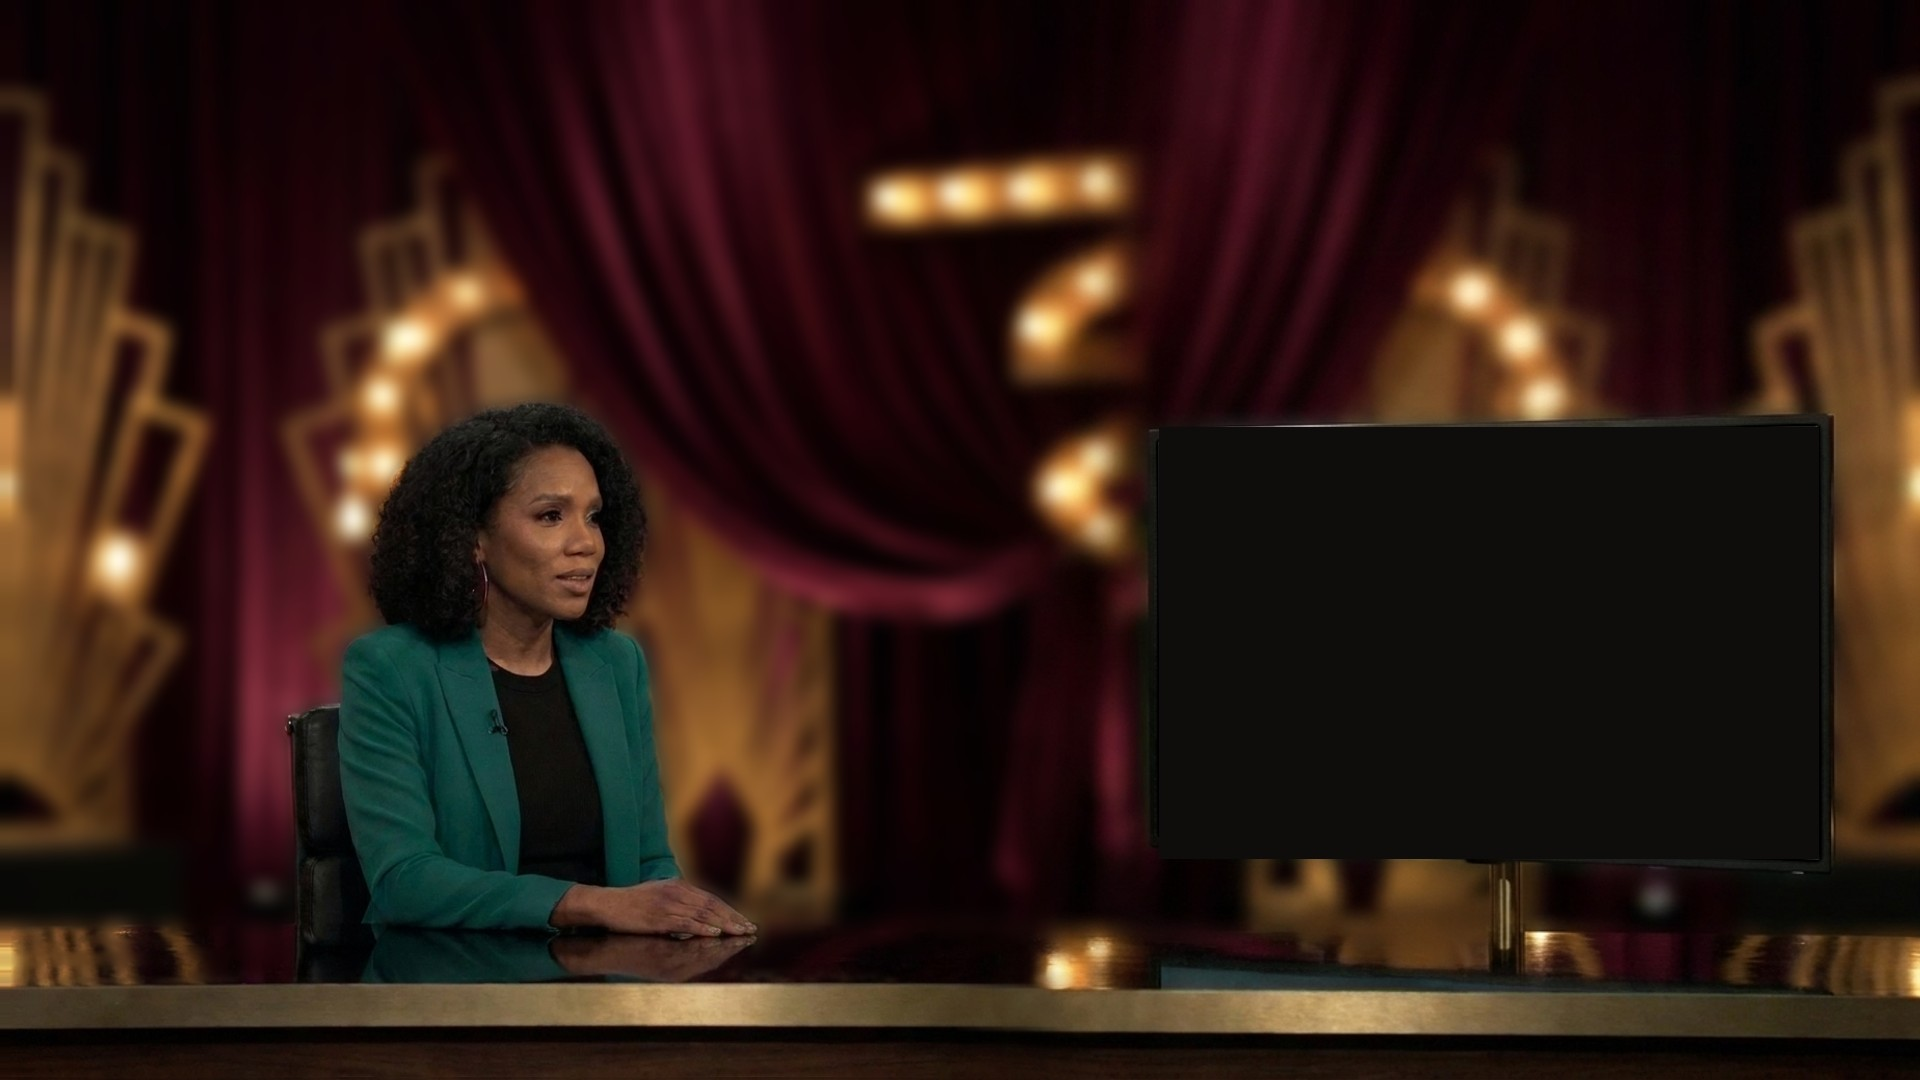
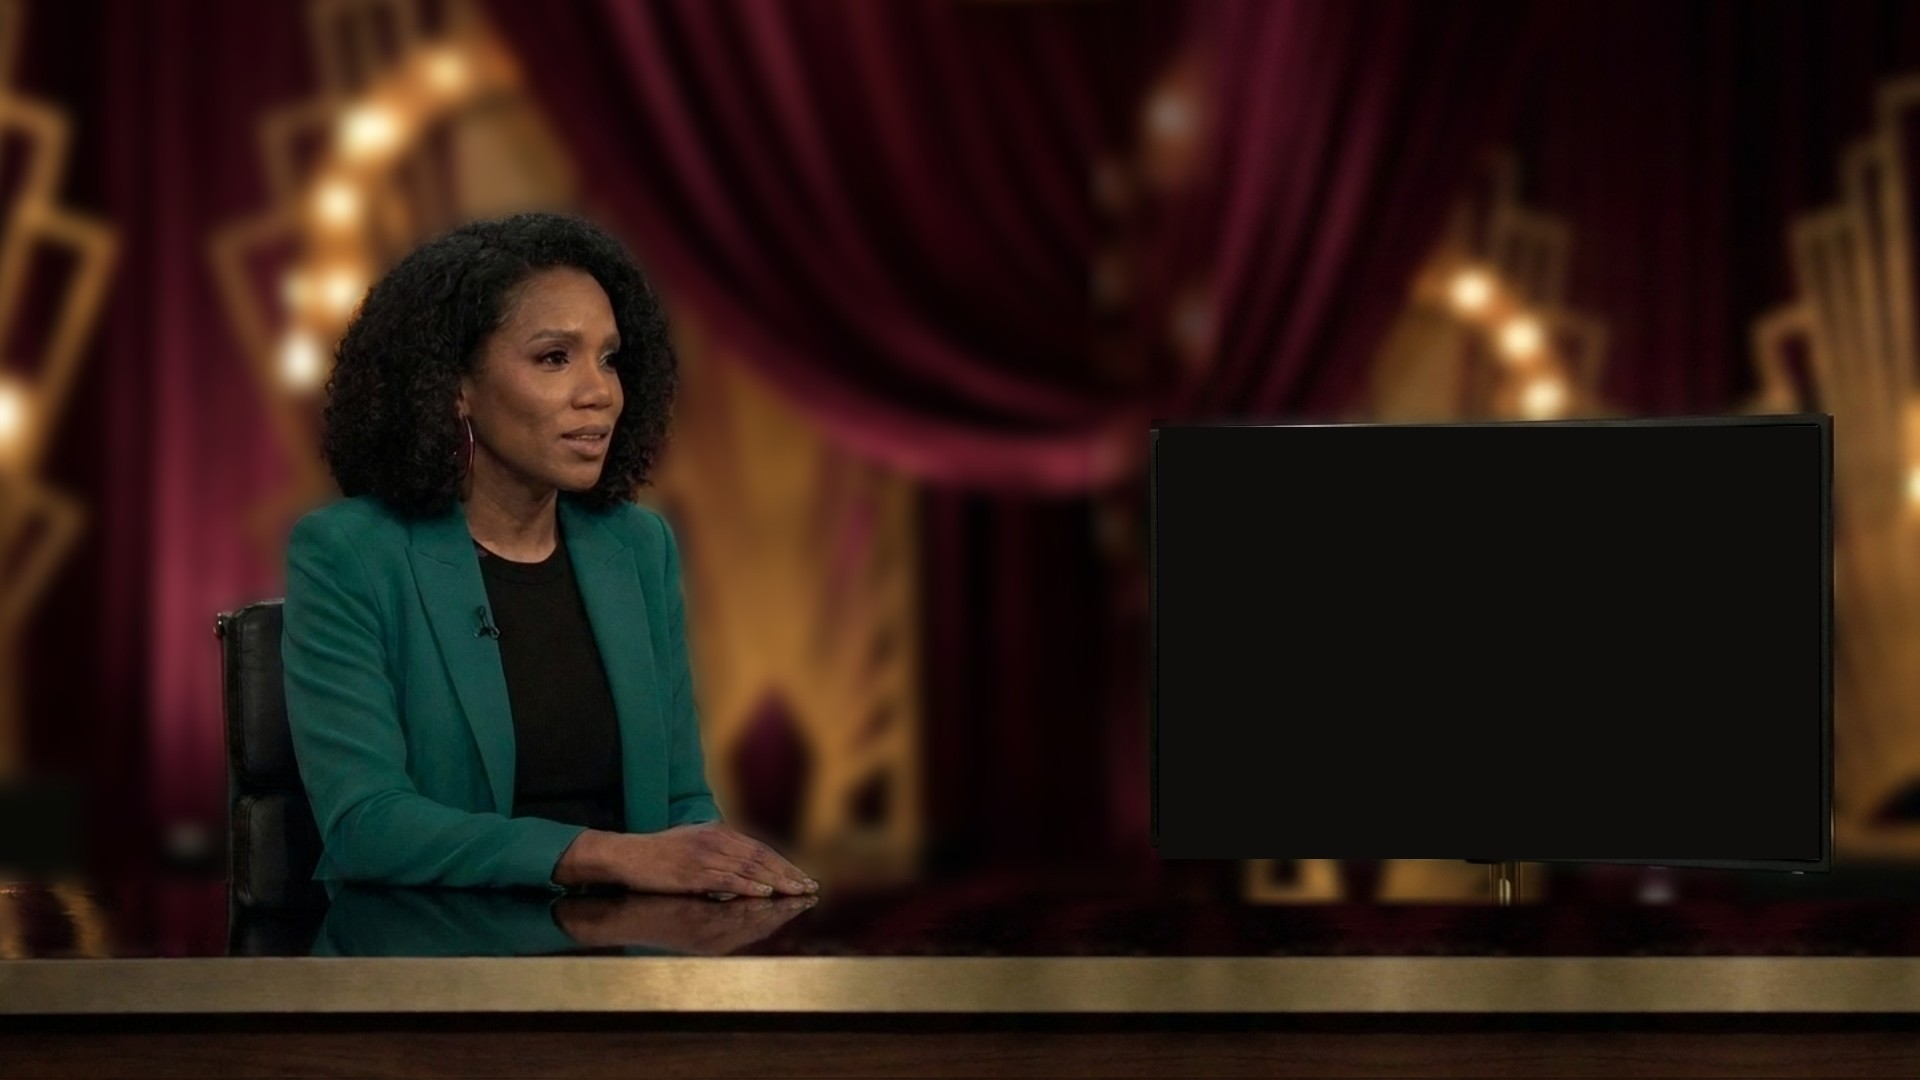
feat: The Gilded Reel shows Jada at her old size, her hands kept in her render
Her portrait is framed wide so her right hand never leaves the render; the
page now lays the render over the set at 1/0.78 of that, back to her old size
and place, with the frame cropping its top and bottom. The TV is drawn above
her render, whose right edge passes under it, with its own bezel, and her
desk runs straight across beneath the TV. The director's host shot is back to
its old framing.

Claude-Session: https://claude.ai/code/session_01GSFhiV3Ep34znZMVb7cbqT

diff --git a/apps/tv-show-live/page/gilded.css b/apps/tv-show-live/page/gilded.css
@@ -228,8 +228,8 @@ button { font: inherit; }
   background: #0c0a07; box-shadow: 0 20px 60px rgba(0, 0, 0, .45), 0 0 0 1px var(--nc-line); }
 .gr-set { position: absolute; inset: 0; transform-origin: 50% 50%; }
 /* Cuts, not zooms: a studio camera is either on its shot or not. */
-/* Jada from the waist up, her hands in frame; the TV's edge stays in frame (a video off screen is not sent). */
-.gr-program.is-host .gr-set { transform: scale(1.6); transform-origin: 8.1% 87.4%; }
+/* Jada from the chest up; the TV's edge stays in frame (a video off screen is not sent). */
+.gr-program.is-host .gr-set { transform: scale(1.5); transform-origin: 4% 35%; }
 .gr-program.is-tv .gr-set { transform: scale(1.9); transform-origin: 92.99% 72.36%; }
 .gr-wall { position: absolute; inset: 0; width: 100%; height: 100%; object-fit: fill; }
 
@@ -237,7 +237,9 @@ button { font: inherit; }
    her still and she was then removed from it; her place was measured by matching the two). It
    fills the frame's height, so only its right edge lies inside the frame, and that edge fades
    into empty wall and window. */
-.gr-host { position: absolute; left: 0.486%; top: 0.498%; width: 55.417%; height: 99.254%; z-index: 2;
+/* Her portrait is framed wide, so her right hand never leaves the render: laid over the set at 1/0.78 of
+   that, she is back to her old size and place, the frame cropping its top and bottom. */
+.gr-host { position: absolute; left: -7.3%; top: -27.5%; width: 71.05%; height: 127.25%; z-index: 2;
   -webkit-mask-image: linear-gradient(to right, #000 86%, transparent 100%); mask-image: linear-gradient(to right, #000 86%, transparent 100%); }
 /* The desk's front, from just below her hands: cut from the set, laid over her render. */
 .gr-desk { position: absolute; left: 0; top: 86%; width: 100%; height: 14%; z-index: 3; pointer-events: none; }
@@ -245,7 +247,8 @@ button { font: inherit; }
 .ll-face img, .ll-face video { position: absolute; inset: 0; width: 100%; height: 100%; object-fit: cover; display: block; }
 
 /* The TV on its stand: the screen measured from the backdrop's green. */
-.gr-tv { position: absolute; left: 60.365%; top: 39.537%; width: 34.375%; height: 40.000%; overflow: hidden; z-index: 1; background: #0e0d0c; }
+/* Above Jada's render, whose wide right edge passes under it; its bezel drawn, as her render covers the set's. */
+.gr-tv { position: absolute; left: 60.365%; top: 39.537%; width: 34.375%; height: 40.000%; overflow: hidden; z-index: 4; box-shadow: 0 0 0 .3cqw #0b0a09; background: #0e0d0c; }
 .gr-tv-feed { position: absolute; inset: 0; opacity: 0; transition: opacity .5s; }
 .gr-tv-feed.is-on { opacity: 1; }
 /* The top of the guest's frame: her face and the film's art behind her (her hands fall below the TV). */
